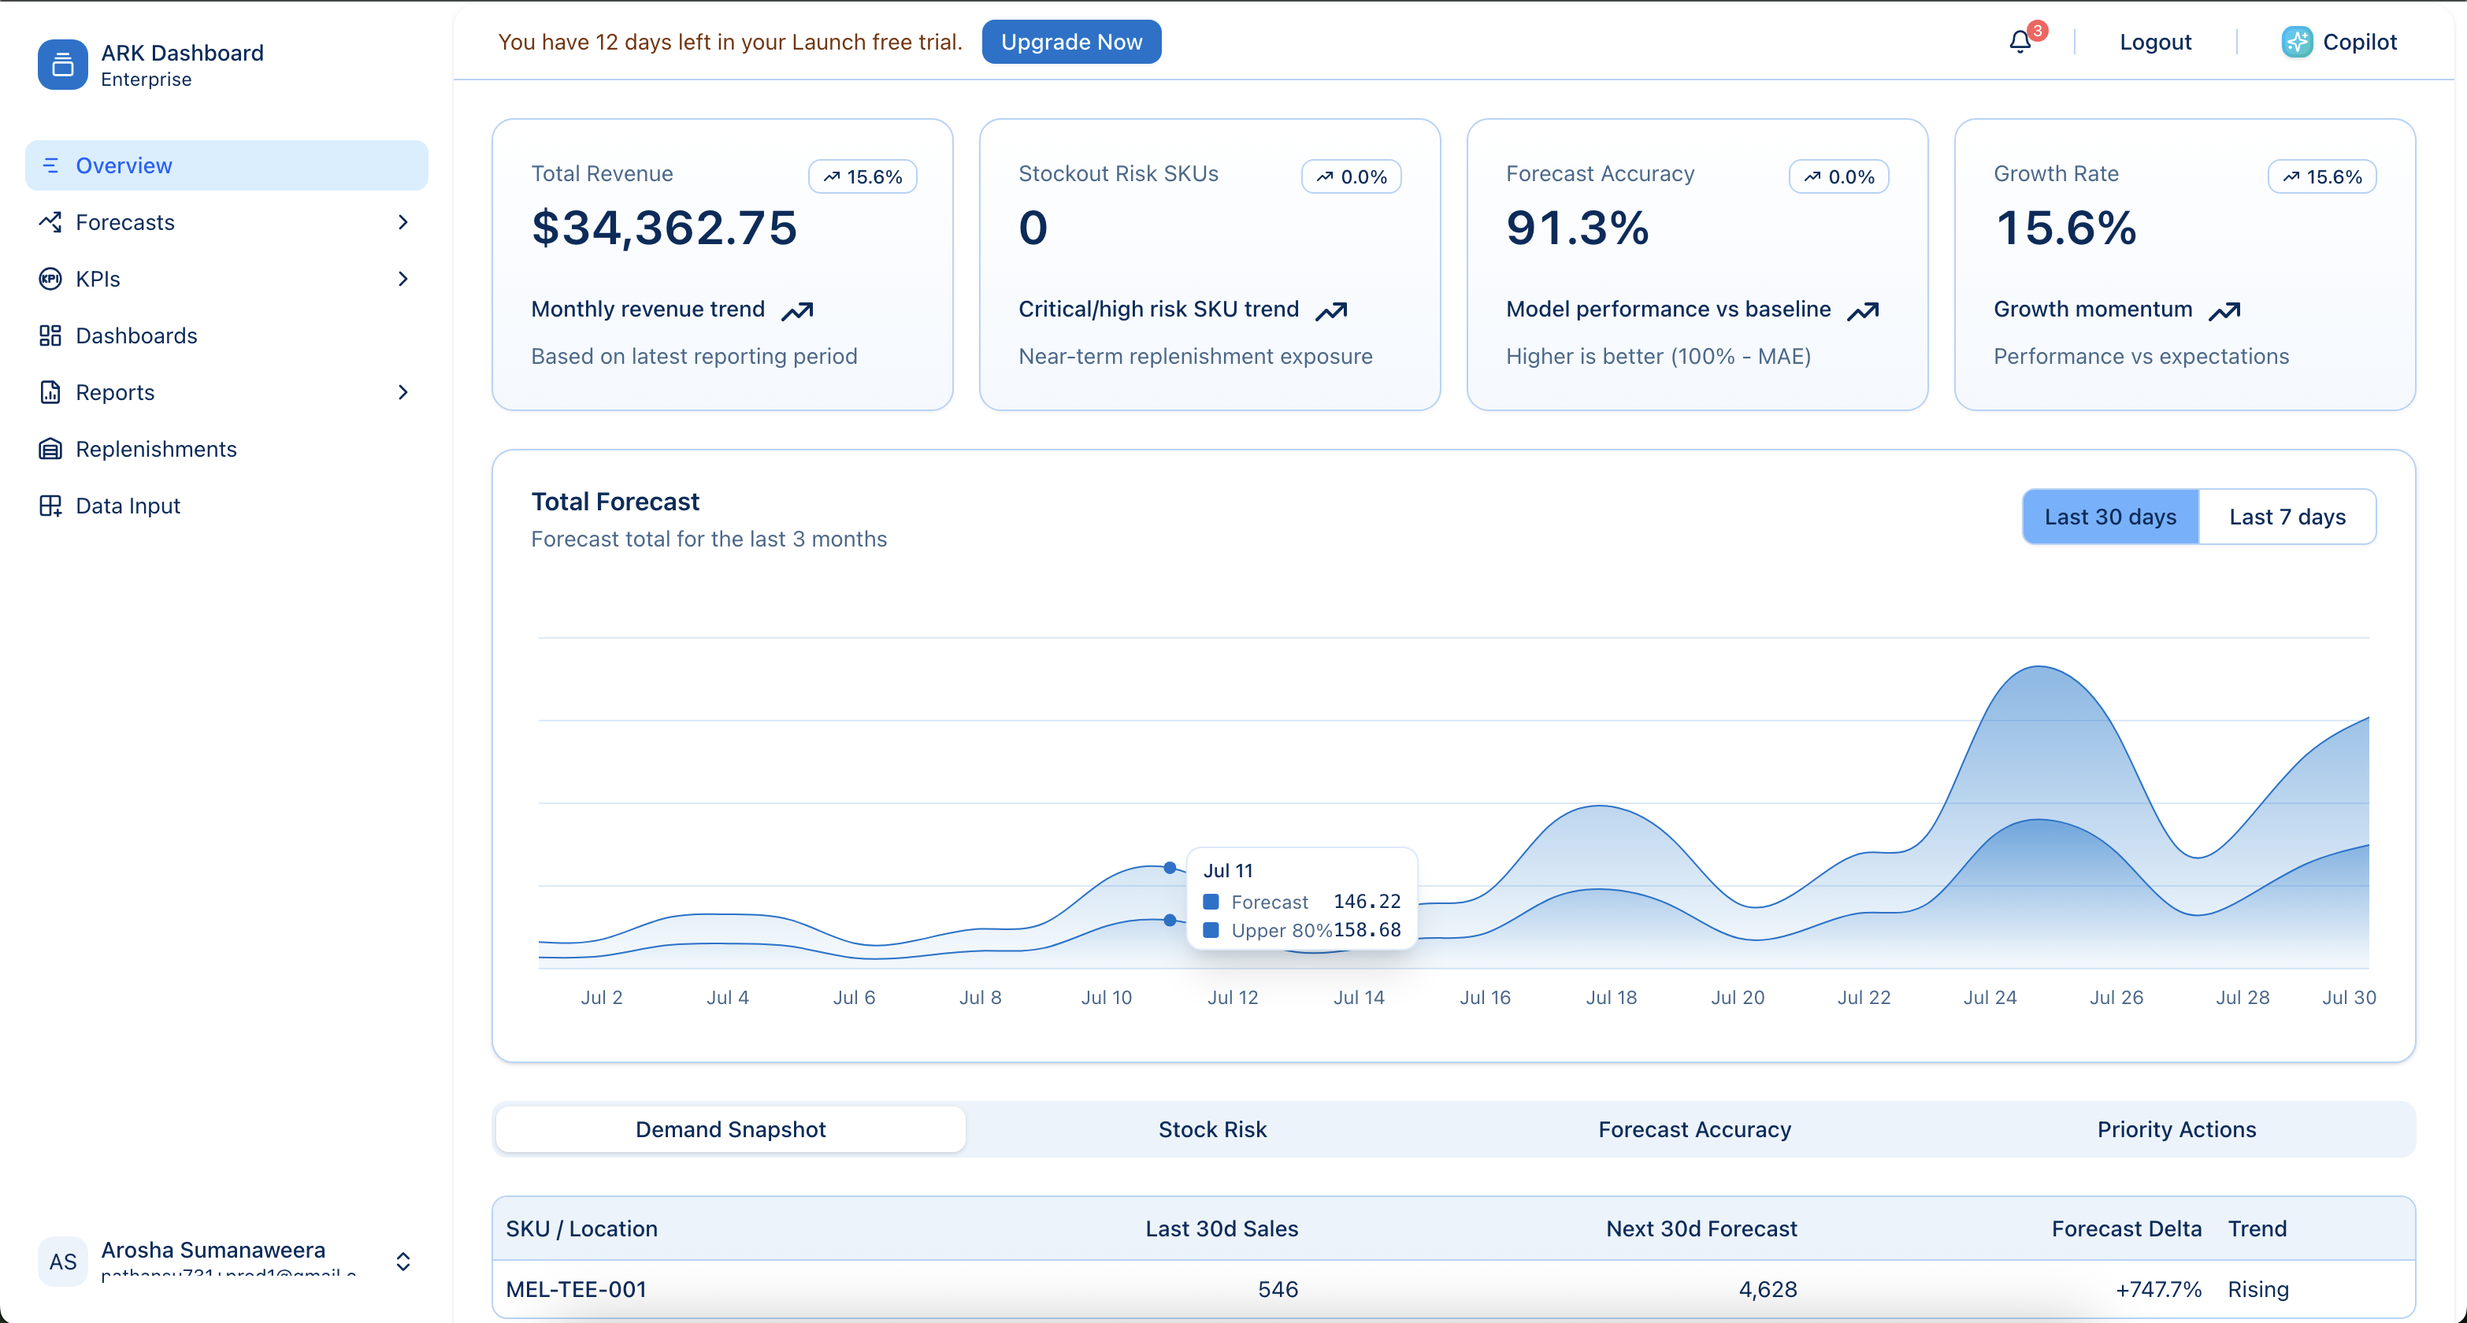
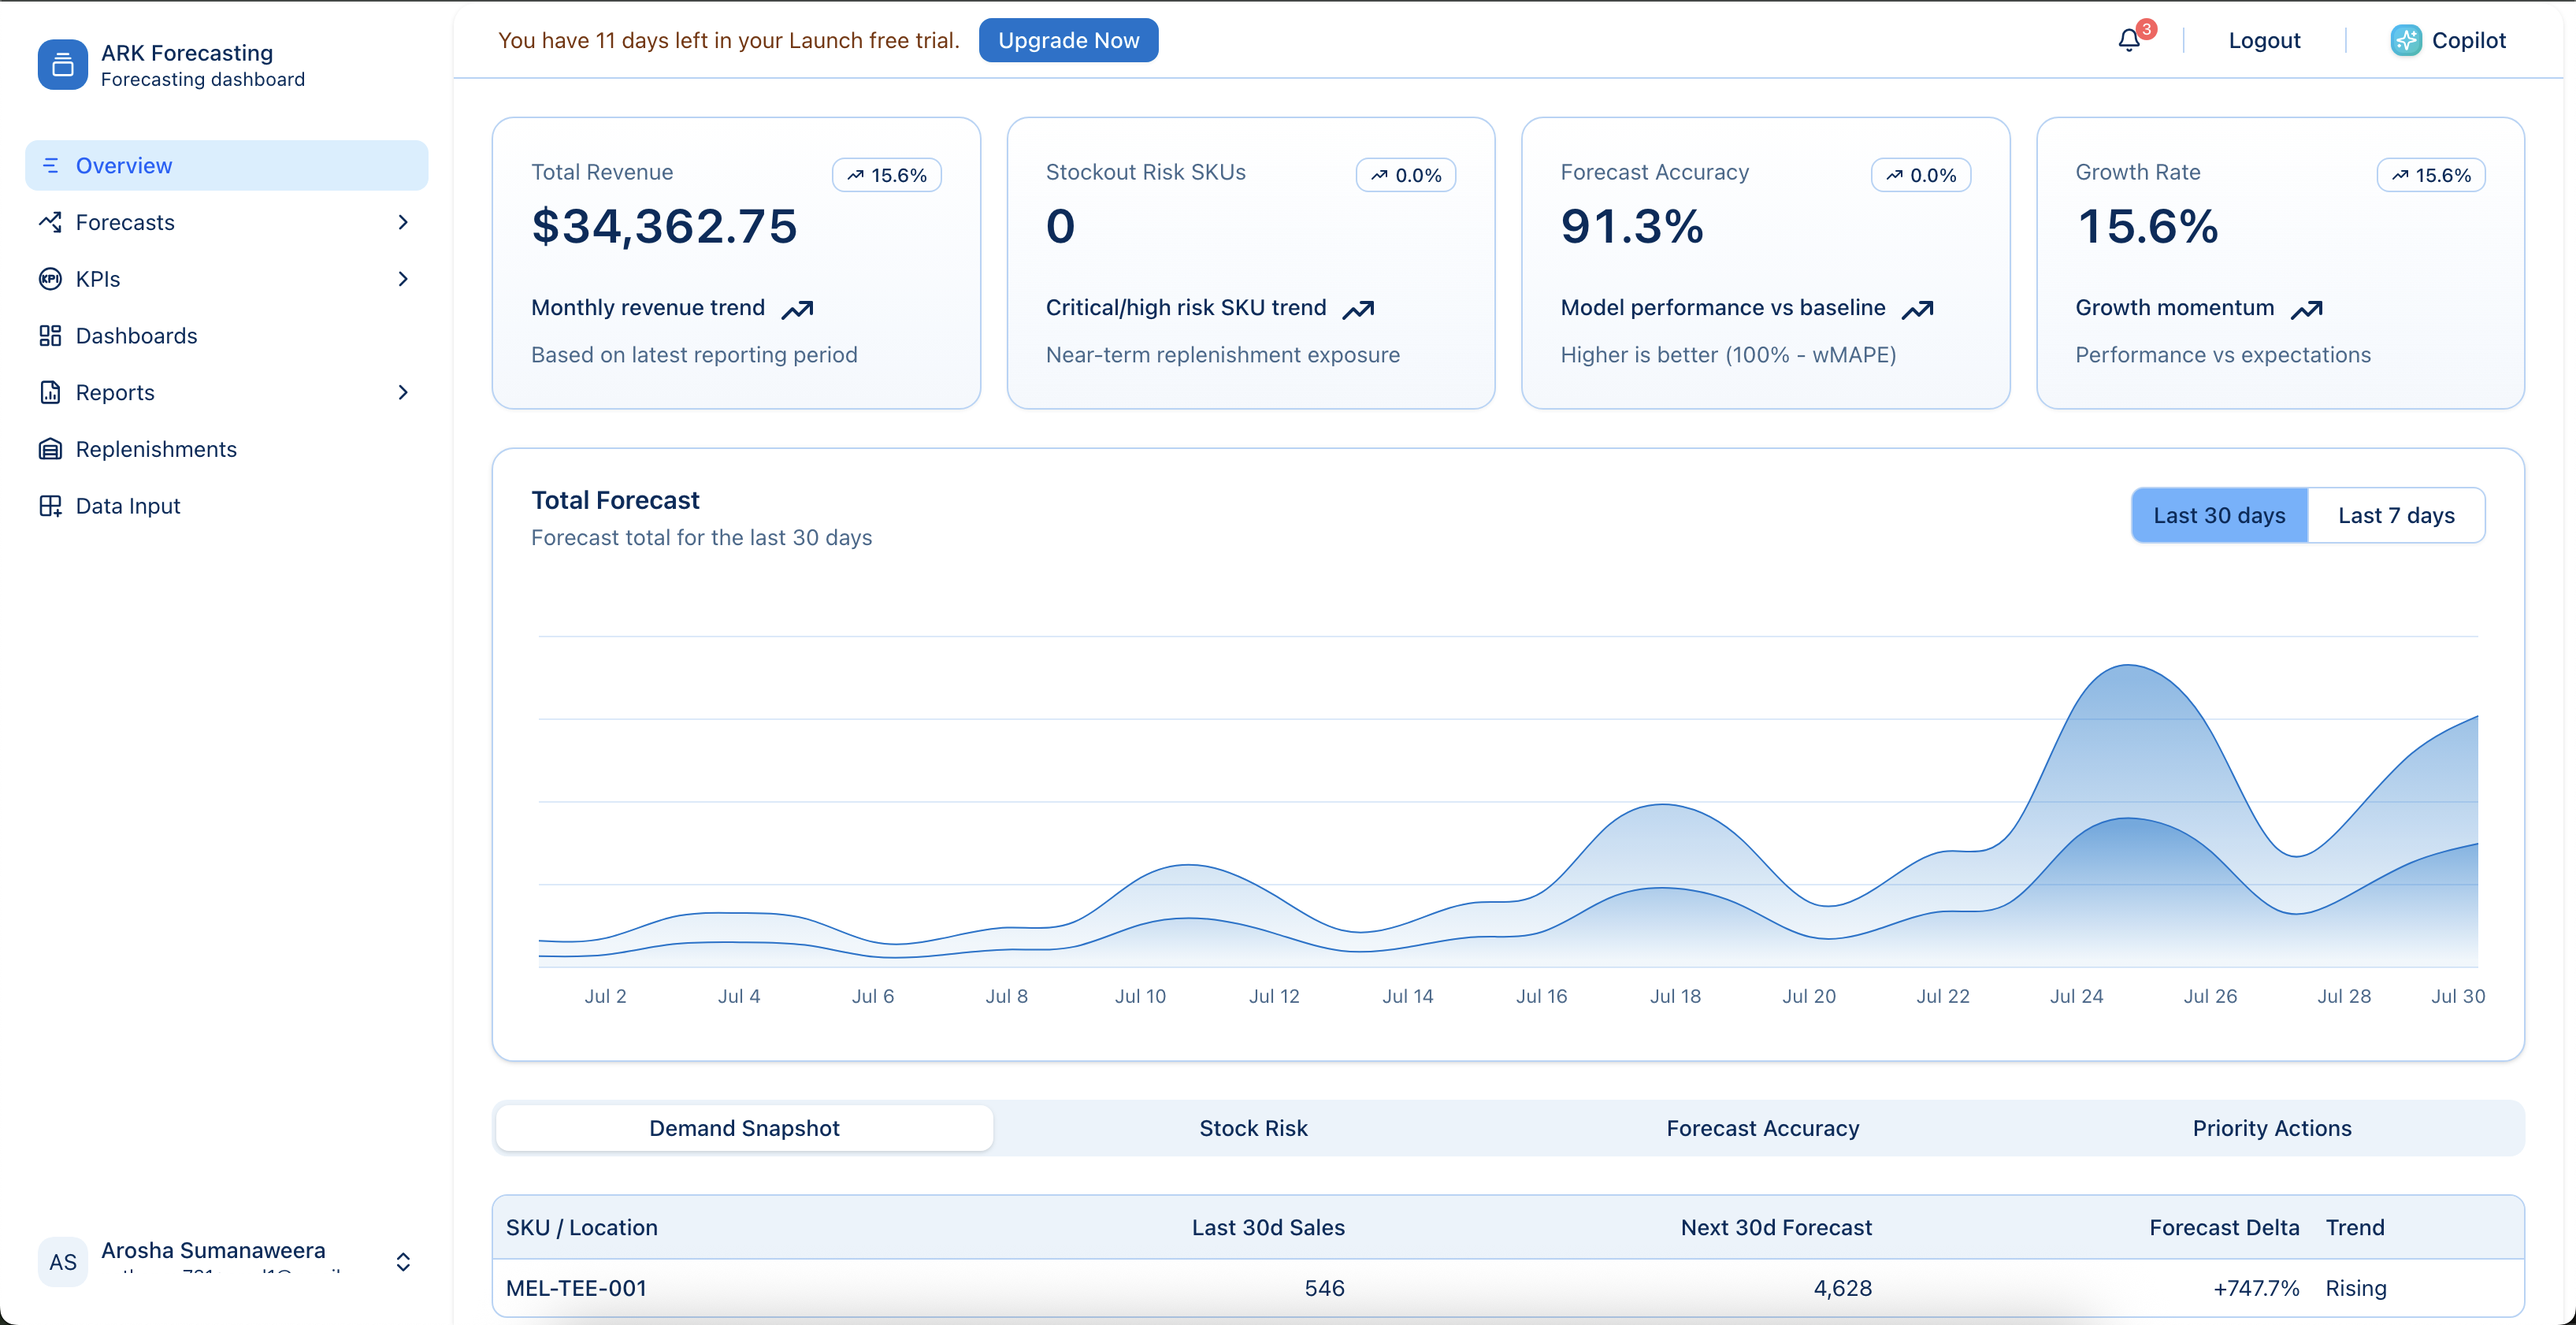
Subscription changes in public web

diff --git a/ark-forecasting/components/price-section/price-data.ts b/ark-forecasting/components/price-section/price-data.ts
@@ -14,17 +14,25 @@ export type PricingPlan = {
 export const PRICING_PLANS: PricingPlan[] = [
   {
     action: "signup",
-    cta: "Sign up for free",
+    cta: "Get started free",
     description: "Perfect for getting started",
-    features: ["Up to 3 projects", "Basic support", "1GB storage", "Community access"],
+    features: ["Full-accuracy forecasting models", "100 SKU runs with monthly refresh", "Forecast accuracy tracking", "CSV import/export", "Community support", "Single store", "2 user seats"],
+    name: "Free",
+    price: "$0",
+  },
+  {
+    action: "signup",
+    cta: "Choose Launch",
+    description: "Everything on Free tier, plus",
+    features: ["2,500 SKU runs a month with weekly refreshing", "5 user seats", "2-year run history", "Third-party integrations", "Up to 3 stores", "Email support"],
     name: "Launch",
     price: "$99",
   },
   {
     action: "signup",
-    cta: "Sign up for free",
-    description: "Great for growing teams",
-    features: ["Up to 10 projects", "Priority support", "50GB storage", "Team collaboration", "Advanced analytics"],
+    cta: "Choose Professional",
+    description: "Ideal for SMB",
+    features: ["10,000 SKU runs a month with weekly refreshing", "15 user seats", "5-year run history", "Third-party integrations", "Up to 6 stores", "Priority support"],
     name: "Professional",
     popular: true,
     price: "$199",
@@ -33,7 +41,7 @@ export const PRICING_PLANS: PricingPlan[] = [
     action: "sales",
     cta: "Contact Sales",
     description: "For scale and custom requirements",
-    features: ["Unlimited projects", "24/7 dedicated support", "Custom storage", "Advanced integrations", "Custom workflows", "SSO & security"],
+    features: ["Unlimited SKU runs", "Unlimited store locations", "Advanced dashboards", "Dedicated support", "Multi-channel forecasting", "Unlimited run history"],
     name: "Enterprise",
     price: "Custom",
   },

diff --git a/ark-forecasting/components/faq-section/faq-list.ts b/ark-forecasting/components/faq-section/faq-list.ts
@@ -20,13 +20,13 @@ export const faqList = [
       "Yes, we offer integrations with popular e-commerce platforms (Shopify, Amazon, WooCommerce), ERPs (NetSuite, SAP, QuickBooks), and 3PLs. We also provide API access for custom integrations.",
   },
   {
-    question: "What happens if I exceed my SKU limit?",
+    question: "What happens if I reach my monthly SKU run limit?",
     answer:
-      "If you approach your SKU limit, we'll notify you in advance. You can easily upgrade to a higher plan or contact our team for custom pricing if you need more capacity.",
+      "Each SKU included in a forecast execution counts as one SKU run. Free includes 100 per month, Launch 2,500, Professional 10,000, and Enterprise includes unlimited SKU runs under custom pricing.",
   },
   {
     question: "Do you offer training and support?",
     answer:
-      "Yes, all plans include comprehensive onboarding, training materials, and ongoing support. Professional and Enterprise plans include priority support with faster response times and dedicated account management.",
+      "Yes. Every plan can use both global and local forecasting models. Professional and Enterprise also include priority support, with dedicated account management available for Enterprise.",
   },
 ];

diff --git a/ark-forecasting/components/price-section/price-section.tsx b/ark-forecasting/components/price-section/price-section.tsx
@@ -39,11 +39,11 @@ export const PriceSection = ({ handleContactSales, handleSignUp }: PriceSectionP
             Choose Your Forecasting Plan
           </h2>
           <p className="max-w-[800px] text-muted-foreground md:text-lg">
-            Simple monthly pricing for your forecasting needs. Cancel anytime.
+            Start free with no expiry, then upgrade when you need more monthly SKU runs.
           </p>
         </motion.div>
 
-        <div className="mx-auto max-w-5xl grid gap-6 lg:grid-cols-3 lg:gap-8">
+        <div className="mx-auto max-w-7xl grid gap-6 md:grid-cols-2 xl:grid-cols-4 xl:gap-6">
           {PRICING_PLANS.map((plan, index) => (
             <PricePlanCard
               key={plan.name}

diff --git a/ark-forecasting/components/sign-up-modal/types.ts b/ark-forecasting/components/sign-up-modal/types.ts
@@ -1,6 +1,6 @@
 import type React from "react";
 
-export type TrialFormData = {
+export type SignupFormData = {
   company: string;
   email: string;
   firstName: string;
@@ -16,7 +16,7 @@ export type DemoFormData = {
 
 export type LeadType = "demo" | "sales" | "expert";
 
-export type TrialSubmitHandler = (
+export type SignupSubmitHandler = (
   event: React.FormEvent,
 ) => void | Promise<void>;
 
@@ -24,7 +24,7 @@ export type DemoSubmitHandler = (
   data: DemoFormData,
 ) => void | Promise<void>;
 
-export type TrialInputChangeHandler = (
-  field: keyof TrialFormData,
+export type SignupInputChangeHandler = (
+  field: keyof SignupFormData,
   value: string,
 ) => void;
